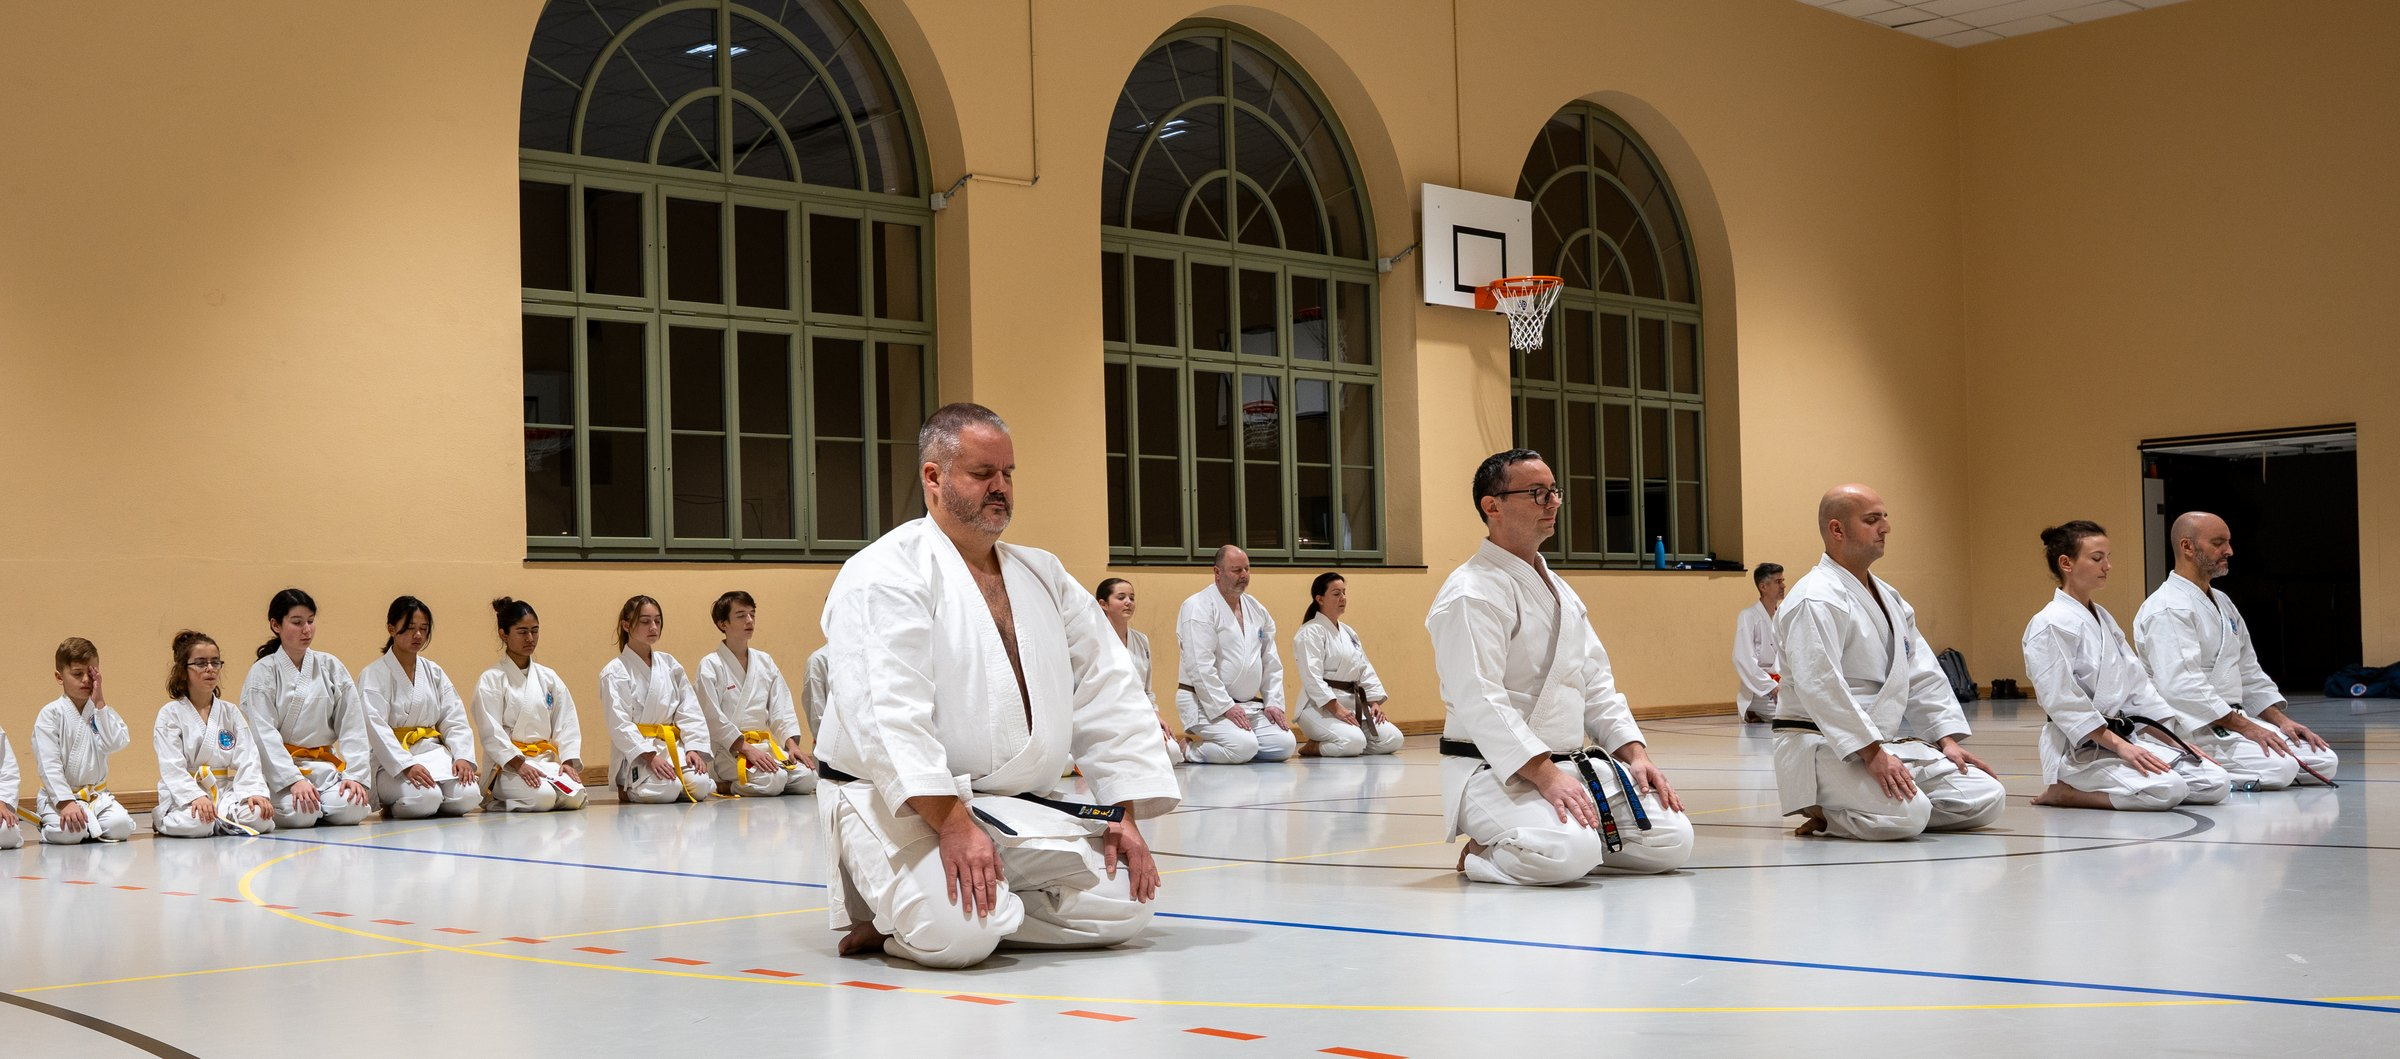
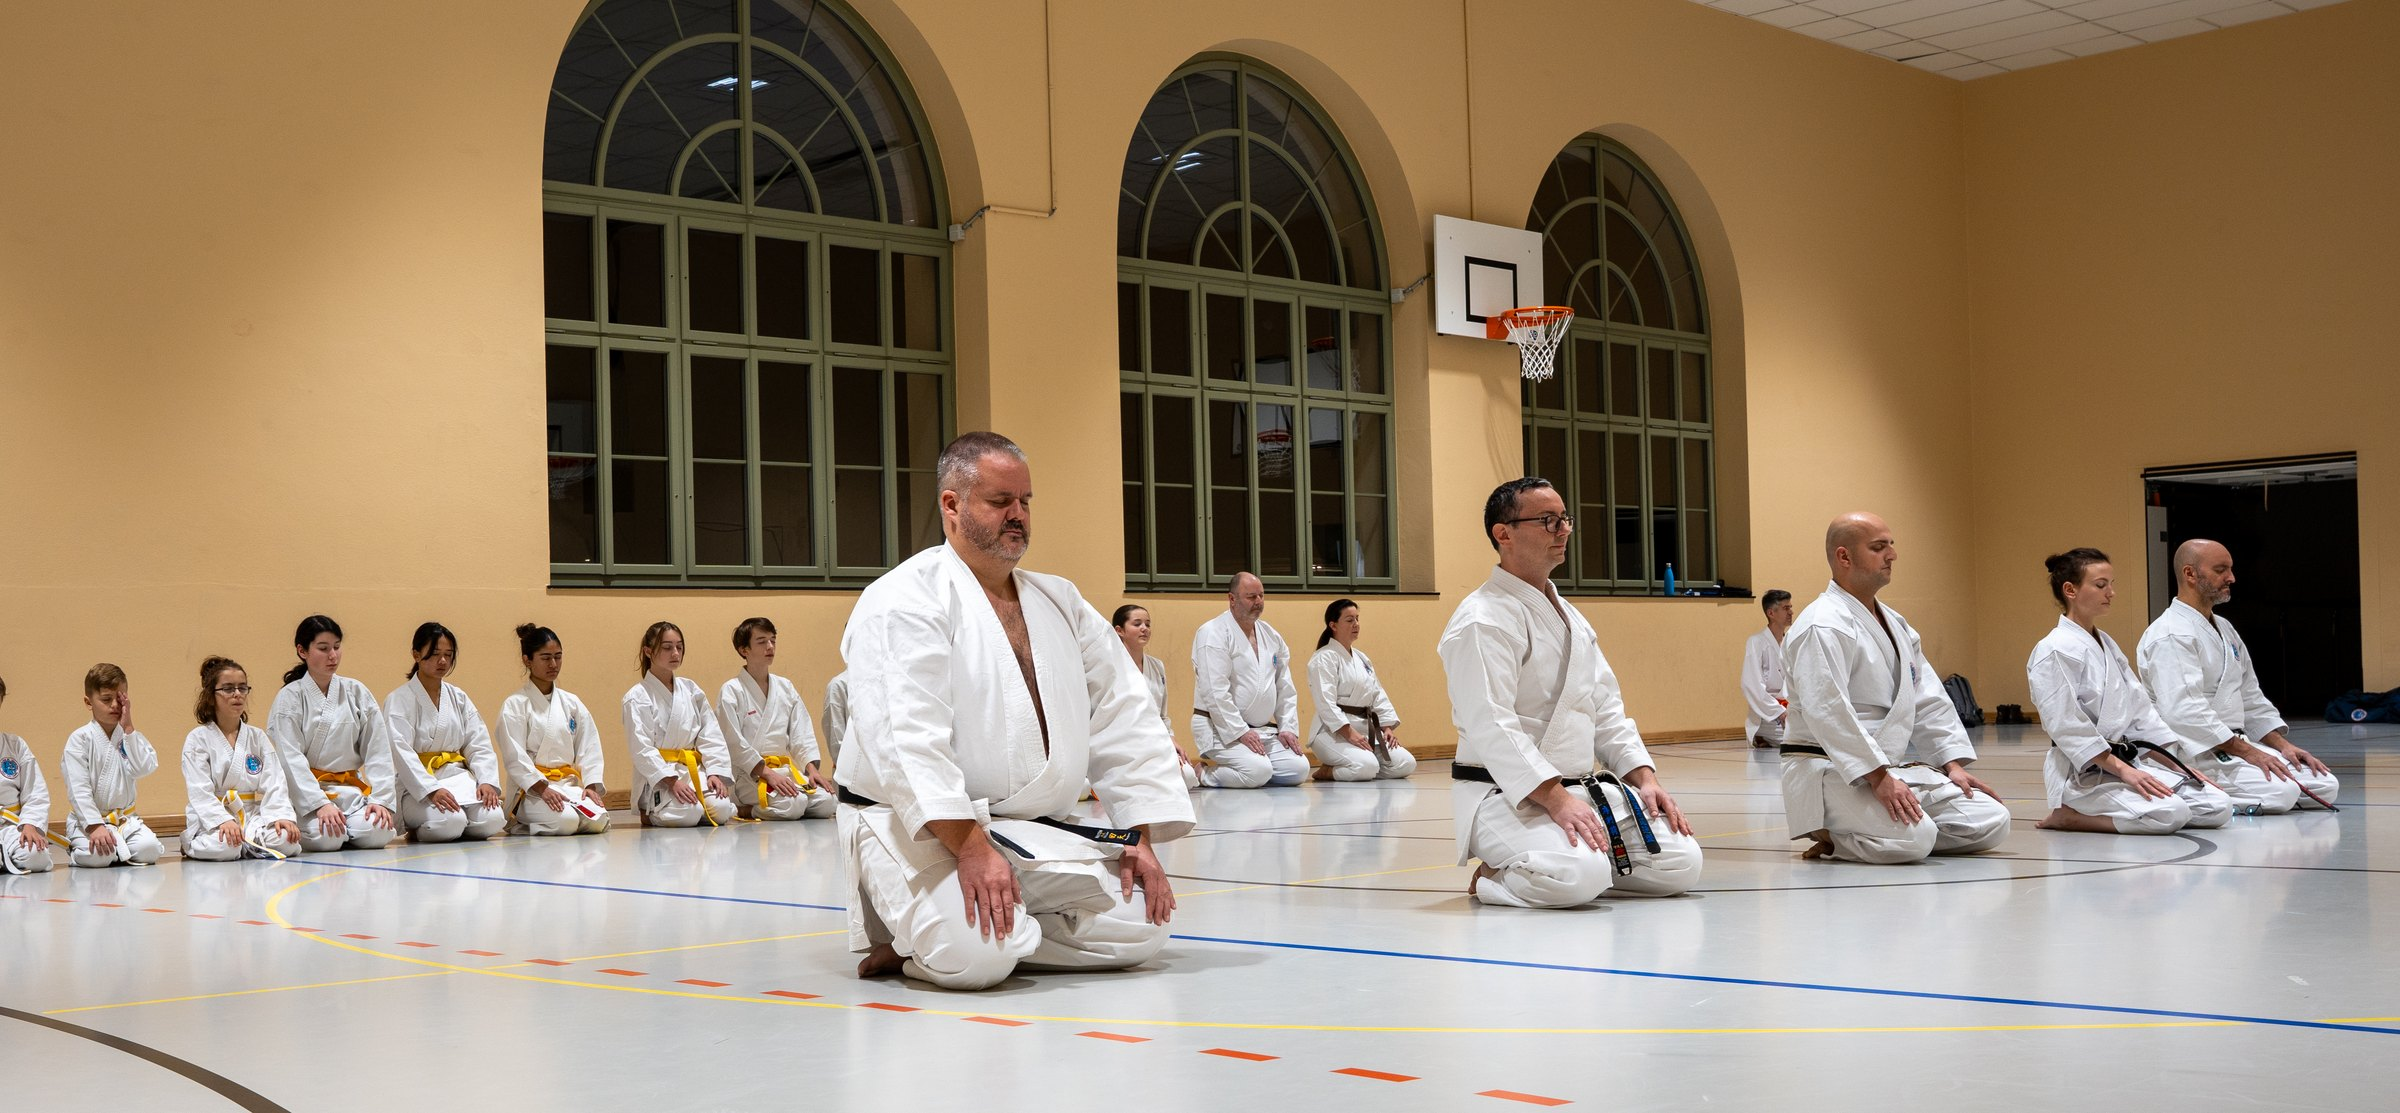
Hero-Seiza: Ausschnitt und Anzeige für sichtbare Knie nachschärfen
Der Crop ist etwas höher, object-position fokussiert die Sensei-Reihe.
Cache-Parameter erzwingt das Nachladen des neuen Bildes.

diff --git a/src/index.html b/src/index.html
@@ -14,10 +14,10 @@
       <section class="hero">
         <img
           class="hero-photo"
-          src="./media/home/seiza.jpg"
+          src="./media/home/seiza.jpg?v=20260927"
           alt="Seiza im Dojo Lind Nord: Senseis und Karatekas knien in der Turnhalle"
           width="2400"
-          height="1059"
+          height="1113"
         />
         <div class="hero-scrim" aria-hidden="true"></div>
         <div class="wrap hero-inner">

diff --git a/src/css/styles.css b/src/css/styles.css
@@ -235,7 +235,8 @@ a:hover {
   width: 100%;
   height: 100%;
   object-fit: cover;
-  object-position: 50% 50%;
+  /* Sensei-Reihe und Knie im sichtbaren Bereich halten */
+  object-position: 54% 38%;
   border-radius: 0;
 }
 
@@ -881,6 +882,10 @@ address {
     max-height: none;
     aspect-ratio: 980 / 718;
     height: auto;
+  }
+
+  .hero-photo {
+    object-position: 52% 34%;
   }
 
   .hero-scrim {
